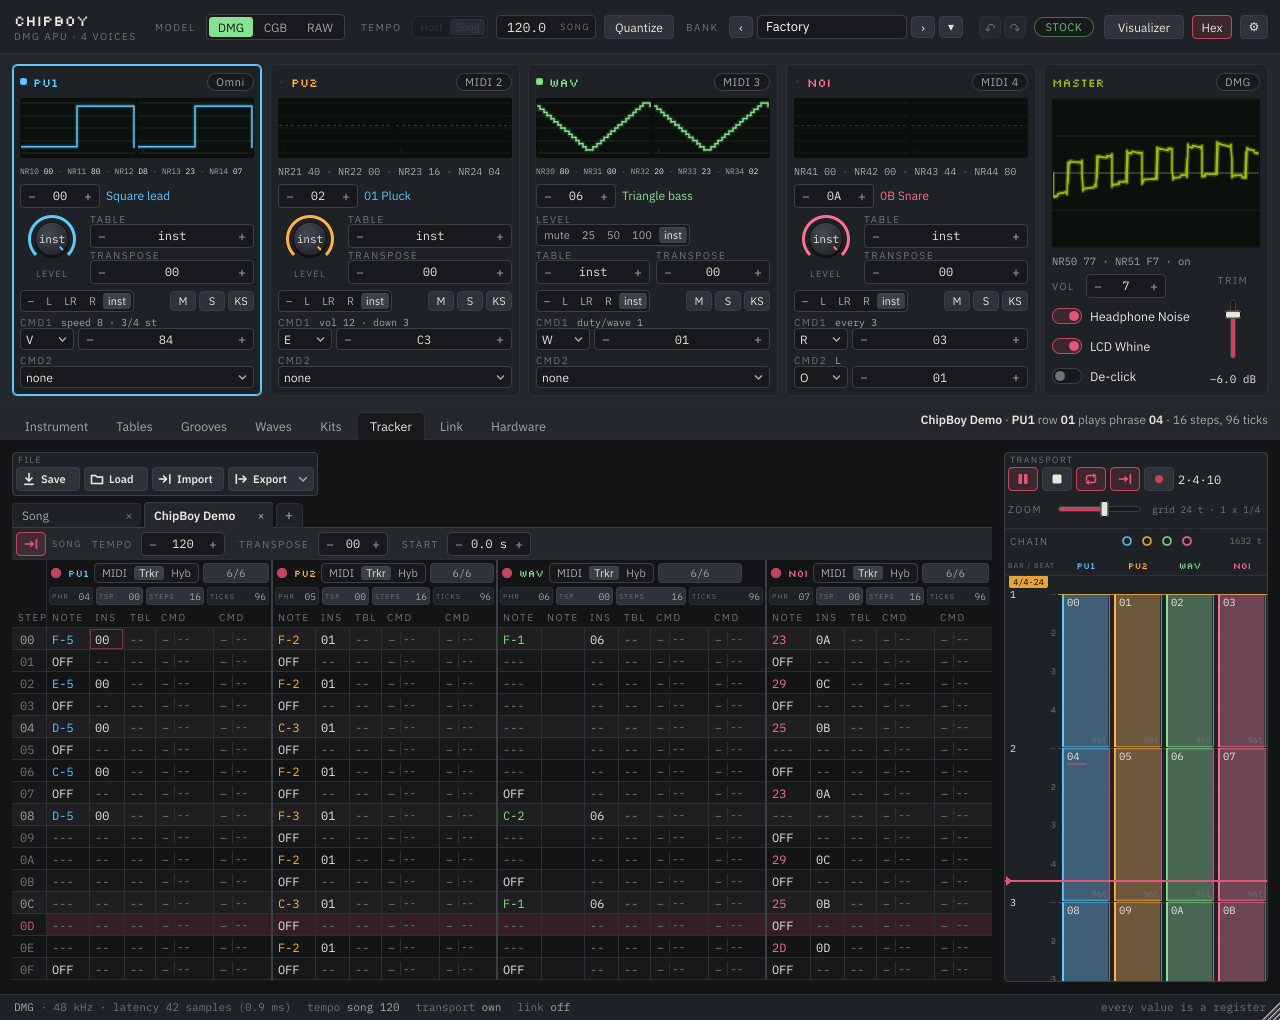
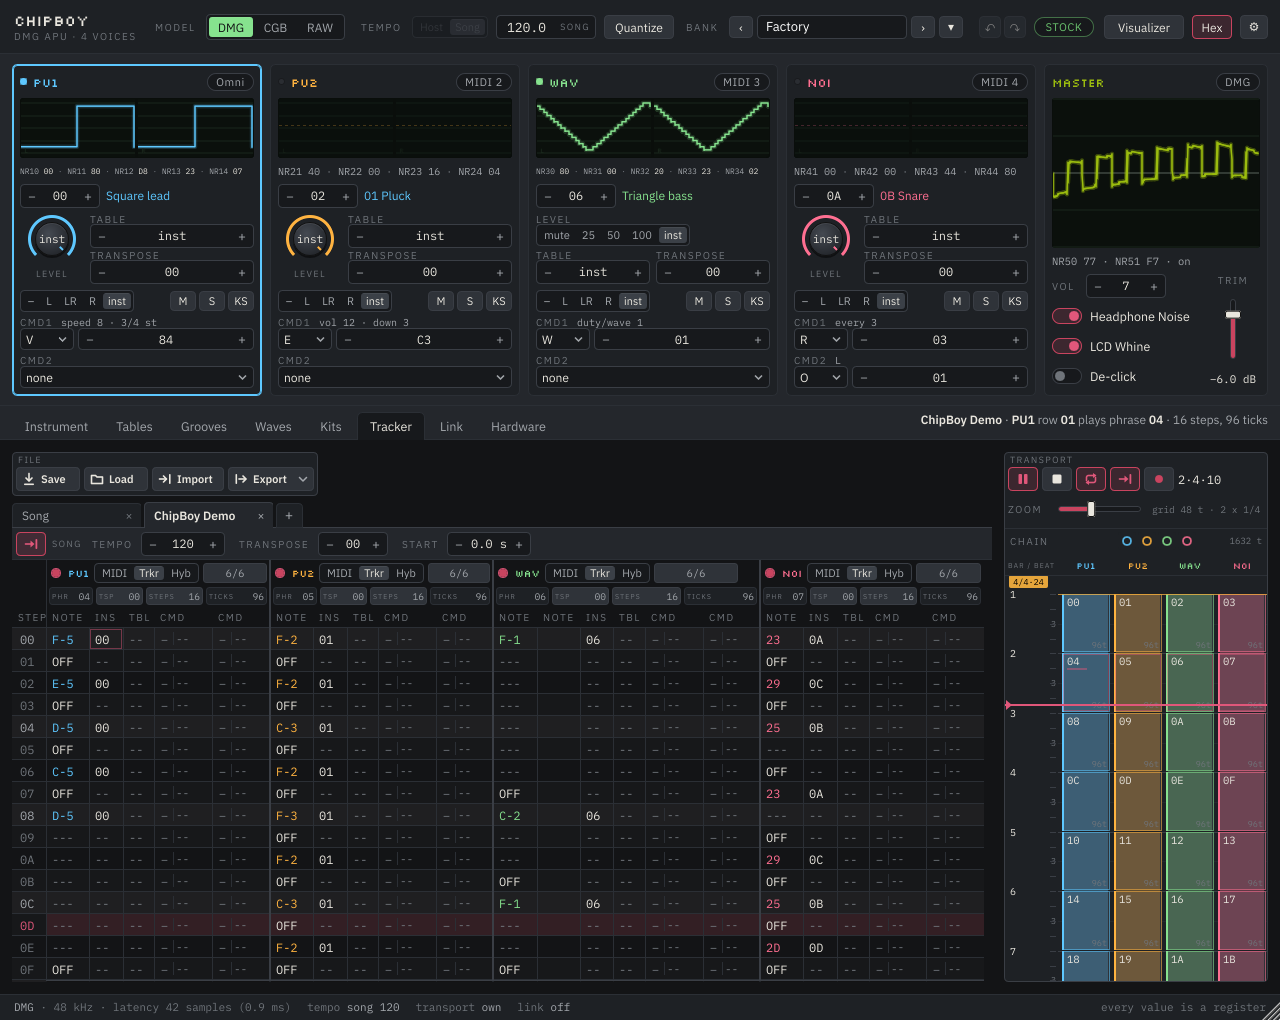
The lane runs to the foot with preview rows; the zoom opens at 48 ticks (D-UI-40)
Past each channel's own phrase the lane previews the rows that follow, dimmed, a hairline
where each new row begins, down to the pane's foot -- not cells: nothing types into them,
the cursor never rests on one, a click puts the play head at that row. Only a phrase longer
than the pane scrolls, and the scrollbar's 8 px stay free at the right. The zoom slider
opens where a grid line is 48 ticks.

Claude-Session: https://claude.ai/code/session_017xjfhsuF4KGRWmf3FzZwSg

diff --git a/Source/plugin/ui/Grids.cpp b/Source/plugin/ui/Grids.cpp
@@ -1157,10 +1157,15 @@ struct PhraseGrid::Impl {
     std::shared_ptr<const bank::Bank> bank;
     /// Each channel's own row: the one it is in at the play head (D-UI-35).
     std::array<int, 4> chRow{};
-    /// A phrase holds sixty-four cells and the bar says how many of them play
-    /// (docs/COMMANDS_AND_TEMPO.md section 11); the grid is that many rows.
-    static constexpr int kMax = tracker::kMaxSteps;
+    /// A phrase holds sixty-four cells; the grid shows a channel's own, then
+    /// the rows that follow it as a preview down to the pane's foot (D-UI-40).
+    static constexpr int kMax = PhraseGrid::kMaxRows;
     std::array<std::array<tracker::Cell, kMax>, 4> cells{};
+    /// Per grid row and channel: the song row the cell belongs to, and
+    /// whether it is that row's first (a new phrase begins there).
+    std::array<std::array<int16_t, kMax>, 4> srcRow{};
+    std::array<std::array<bool, kMax>, 4> boundary{};
+    int visibleRows = PhraseGrid::kVisibleSteps;
     std::array<int, 4> playing { -1, -1, -1, -1 };
     std::array<int, 4> rollNote { -1, -1, -1, -1 };
     std::array<std::array<int, kMax>, 4> shadow{};   ///< the roll's notes as the bar played, greyed
@@ -1331,13 +1336,35 @@ struct PhraseGrid::Impl {
         // shows as many steps as the longest of the four in this row, so every
         // cell it holds can be reached, and each head's LEN says how far its
         // own channel really runs.
-        core.rows = PhraseGrid::kVisibleSteps;
-        if (song != nullptr) { int n = 1; for (int ch = 0; ch < 4; ++ch) n = juce::jmax(n, song->stepsOfRow(ch, chRow[size_t(ch)])); core.rows = n; }
-        core.curRow = juce::jlimit(0, core.rows - 1, core.curRow);
+        // As many rows as the longest of the four phrases, or as the pane
+        // holds, whichever is more (D-UI-40).
+        int longest = 1;
+        if (song != nullptr) for (int ch = 0; ch < 4; ++ch) longest = juce::jmax(longest, song->stepsOfRow(ch, chRow[size_t(ch)]));
+        else longest = PhraseGrid::kVisibleSteps;
+        core.rows = juce::jlimit(1, kMax, juce::jmax(longest, visibleRows));
         for (int ch = 0; ch < 4; ++ch) {
             const int r = chRow[size_t(ch)];
             const auto* p = song != nullptr ? song->phrase(song->phraseAt(ch, r)) : nullptr;
-            for (int i = 0; i < kMax; ++i) cells[size_t(ch)][size_t(i)] = p != nullptr ? p->cells[size_t(i)] : tracker::Cell{};
+            const int own = p != nullptr ? p->length() : (song != nullptr ? song->stepsOfRow(ch, r) : 16);
+            for (int i = 0; i < kMax; ++i) { cells[size_t(ch)][size_t(i)] = p != nullptr && i < own ? p->cells[size_t(i)] : tracker::Cell{}; srcRow[size_t(ch)][size_t(i)] = int16_t(r); boundary[size_t(ch)][size_t(i)] = false; }
+            // The preview: the rows that follow, as if the phrase ran on. A
+            // looping chain comes round (section 212); one that stops shows
+            // its empty rows.
+            if (song != nullptr) {
+                int at = r, gr = own;
+                while (gr < core.rows) {
+                    const int loopRows = song->loopRows(ch);
+                    const bool loops = song->chainEnd[size_t(ch)] == tracker::ChainEnd::Loop && loopRows > 0;
+                    at = loops && at + 1 >= loopRows ? 0 : at + 1;
+                    const auto* np = song->phrase(song->phraseAt(ch, at));
+                    const int len = np != nullptr ? np->length() : 16;
+                    for (int i = 0; i < len && gr < core.rows; ++i, ++gr) {
+                        cells[size_t(ch)][size_t(gr)] = np != nullptr ? np->cells[size_t(i)] : tracker::Cell{};
+                        srcRow[size_t(ch)][size_t(gr)] = int16_t(juce::jmin(at, 32767));
+                        boundary[size_t(ch)][size_t(gr)] = i == 0;
+                    }
+                }
+            }
             groove[size_t(ch)] = p != nullptr ? p->groove : 0;
             length[size_t(ch)] = p != nullptr ? p->length() : (song != nullptr ? song->stepsOfRow(ch, r) : 16);
             // The chip row (D-UI-37): the slot, the row's transpose, and what
@@ -1358,6 +1385,11 @@ struct PhraseGrid::Impl {
             armed[size_t(ch)] = song == nullptr || song->recordArm[size_t(ch)];
             source[ch].setSelected(plays[size_t(ch)] == tracker::NoteSource::Tracker ? 1
                                    : plays[size_t(ch)] == tracker::NoteSource::Hybrid ? 2 : 0, juce::dontSendNotification);
+        }
+        // The cursor never rests on a preview row (D-UI-40).
+        {
+            const int ch = core.curCol >= 0 && core.curCol < int(core.cols.size()) ? core.cols[size_t(core.curCol)].ch : 0;
+            core.curRow = juce::jlimit(0, juce::jmax(0, length[size_t(ch)] - 1), core.curRow);
         }
     }
 
@@ -1895,6 +1927,12 @@ struct PhraseGrid::Impl {
         const int row = core.hoverRow, col = core.hoverCol;
         if (row < 0 || row >= core.rows || col < 0 || col >= int(core.cols.size())) return {};
         const auto& c = core.cols[size_t(col)];
+        if (c.kind != Kind::Step && row >= length[size_t(c.ch)]) {
+            const int r = int(srcRow[size_t(c.ch)][size_t(row)]);
+            const int slot = song != nullptr ? song->phraseAt(c.ch, r) : 0;
+            return juce::String("A preview of ") + colours::channelName(c.ch) + "'s row " + ValueFormat::index(r) + (slot ? ", phrase " + ValueFormat::slot(slot) : juce::String(", no phrase"))
+                   + ", as if this phrase ran on. Not editable: click to put the play head there.";
+        }
         const auto& cell = cells[size_t(c.ch)][size_t(row)];
         if (c.kind == Kind::Ghost)
             return plays[size_t(c.ch)] == tracker::NoteSource::Hybrid
@@ -2081,6 +2119,16 @@ void PhraseGrid::setBank(std::shared_ptr<const bank::Bank> bank)
 {
     impl_->bank = std::move(bank);
 }
+void PhraseGrid::setVisibleRows(int rows)
+{
+    auto& im = *impl_;
+    rows = juce::jlimit(1, kMaxRows, rows);
+    if (rows == im.visibleRows) return;
+    im.visibleRows = rows;
+    im.refreshFromSong();
+    im.buildColumns(getWidth());
+    repaint();
+}
 
 int PhraseGrid::steps() const { return impl_->steps(); }
 void PhraseGrid::setPlayingStep(int ch, int step)
@@ -2140,15 +2188,19 @@ void PhraseGrid::paint(juce::Graphics& g)
             core.paintCell(g, r, c, text, blank, colour, focused);
         }
     }
-    // A step the row never plays -- past the phrase's length, or one its H
-    // hops never reach (section 102) -- is dimmed and stays a cell (D-UI-37).
+    // A step the row never plays -- one its H hops never reach (section
+    // 102) -- is dimmed and stays a cell (D-UI-37); past the phrase's length
+    // the rows that follow are previewed, dimmed alike, a line where each
+    // new row begins (D-UI-40).
     for (int ch = 0; ch < 4; ++ch) {
         const int first = Impl::firstCol(ch), last = first + Impl::channelCols(ch) - 1;
         const int x = core.cols[size_t(first)].x, w = core.cols[size_t(last)].x + core.cols[size_t(last)].w - x;
         for (int r = 0; r < core.rows; ++r) {
-            if (r < im.length[size_t(ch)] && im.reached[size_t(ch)][size_t(r)]) continue;
+            const bool own = r < im.length[size_t(ch)];
+            if (own && im.reached[size_t(ch)][size_t(r)]) continue;
             g.setColour(juce::Colours::black.withAlpha(0.42f));
             g.fillRect(x, core.rowY(r), w, core.rowH);
+            if (!own && im.boundary[size_t(ch)][size_t(r)]) { g.setColour(colours::line); g.fillRect(x, core.rowY(r), w, 1); }
         }
     }
 }
@@ -2205,6 +2257,13 @@ void PhraseGrid::mouseDown(const juce::MouseEvent& e)
     int r = 0, c = 0;
     if (!core.cellAt(e.getPosition(), r, c)) return;
     im.leaveHead();
+    // A preview row (D-UI-40): not a cell to edit; the play head goes to the
+    // row it previews on that channel.
+    if (c > 0 && r >= im.length[size_t(core.cols[size_t(c)].ch)]) {
+        const int ch = core.cols[size_t(c)].ch;
+        if (onAdvance) onAdvance(ch, int(im.srcRow[size_t(ch)][size_t(r)]));
+        return;
+    }
     if (core.editable(c)) {
         // A click ends whatever value was being typed: what follows is a
         // new undo (UI_DESIGN section 2.1).
@@ -2265,6 +2324,7 @@ void PhraseGrid::mouseDoubleClick(const juce::MouseEvent& e)
     }
     int r = 0, c = 0;
     if (!core.cellAt(e.getPosition(), r, c) || !core.editable(c)) return;
+    if (r >= im.length[size_t(core.cols[size_t(c)].ch)]) return;   // a preview row (D-UI-40)
     // A blank cell fills itself first (section 38).
     if (im.fillBlank(r, c)) return;
     const auto kind = core.cols[size_t(c)].kind;
@@ -2311,6 +2371,8 @@ bool PhraseGrid::keyPressed(const juce::KeyPress& k)
     }
     if (core.navigate(k)) {
         im.leaveHead();
+        // A preview row is never the cursor's (D-UI-40).
+        { const int ch = core.cols[size_t(core.curCol)].ch; core.curRow = juce::jlimit(0, juce::jmax(0, im.length[size_t(ch)] - 1), core.curRow); }
         repaint();
         if (onEntryEnd) onEntryEnd();
         // Past sixteen steps the grid is taller than its pane, so the tab
@@ -2406,8 +2468,9 @@ struct ChainColumn::Impl {
     int64_t cursor = 0;
     bool playing = false;
     int64_t transport = 0;
-    /// The zoom slider, 0..1, log-mapped to pixels per tick (D-UI-35).
-    double zoomT = 0.56;
+    /// The zoom slider, 0..1, log-mapped to pixels per tick (D-UI-35); it
+    /// opens where a grid line is 48 ticks, two quarters (D-UI-40).
+    double zoomT = 0.40;
     /// The rows area's scroll, in pixels down the timeline.
     double scrollPx = 0.0;
     /// The cell cursor: channel * 2, + 1 on the transpose (section 48). The

diff --git a/Source/plugin/main/panels/TrackerPanel.cpp b/Source/plugin/main/panels/TrackerPanel.cpp
@@ -171,6 +171,22 @@ TrackerPanel::TrackerPanel(ChipBoyProcessor& p)
     auto lane = std::make_unique<Hold>(grid_, PhraseGrid::preferredHeight());
     laneHold_ = lane.get();
     scroll_.setContent(std::move(lane));
+    scroll_.setReserveScrollbar(true);                   // room for the low-profile bar whether or not it shows (D-UI-40)
+    // A click on a preview row (D-UI-40): the play head goes to that row of
+    // that channel, on the pass the play head is on.
+    grid_.onAdvance = [this](int ch, int row) {
+        const auto s = processor.song();
+        if (!s || row < 0) return;
+        int cur = 0, in = 0, pass = 0;
+        tracker::rowAtTick(*s, ch, cursor_, cur, in, &pass);
+        const int64_t loop = tracker::chainLoopTicks(*s, ch);
+        int64_t t = tracker::rowStartTick(*s, ch, row) + int64_t(pass) * loop;
+        if (t <= cursor_ && loop > 0) t += loop;
+        cursor_ = std::max<int64_t>(0, t);
+        if (processor.ownsTransport() && processor.transportPlaying()) processor.transportLocate(cursor_);
+        refreshViews();
+        contextChanged();
+    };
 
     // The play head moved by hand (D-UI-35): the lanes look there, and a
     // running own transport jumps there too (section 223).
@@ -337,7 +353,8 @@ void TrackerPanel::refreshViews()
     if (s) { spb = 1; for (int ch = 0; ch < 4; ++ch) { rows[ch] = rowOf(ch); spb = std::max(spb, s->stepsOfRow(ch, rows[ch])); } }
     grid_.setSong(s, rows);
     for (int ch = 0; ch < 4; ++ch) shownRow_[size_t(ch)] = rows[ch];
-    if (spb != gridSteps_) { gridSteps_ = spb; syncGridHeight(); }
+    gridSteps_ = spb;
+    syncGridHeight();
     syncSongTime();
     syncTabs();
 }
@@ -346,8 +363,15 @@ void TrackerPanel::refreshViews()
 /// the tab's pane scrolls (docs/COMMANDS_AND_TEMPO.md section 25).
 void TrackerPanel::syncGridHeight()
 {
+    // The lane runs to the pane's foot (D-UI-40): as many rows as the pane
+    // holds, the last one cut where it must, previewing the rows that follow
+    // each channel's phrase; only a phrase longer than the pane scrolls.
     if (laneHold_ == nullptr) return;
-    laneHold_->setHeight(PhraseGrid::heightForSteps(gridSteps_));
+    const int paneH = std::max(1, scroll_.getHeight());
+    const int paneRows = std::max(1, (paneH - PhraseGrid::kHeaderHeight + PhraseGrid::kRowHeight - 1) / PhraseGrid::kRowHeight);
+    grid_.setVisibleRows(paneRows);
+    const int own = PhraseGrid::heightForSteps(gridSteps_);
+    laneHold_->setHeight(own > paneH ? own : paneH);
     scroll_.relayout();
 }
 
@@ -685,6 +709,7 @@ void TrackerPanel::resized()
         place(r, songStart_, 84, Stepper::kHeight);
     }
     scroll_.setBounds(area);
+    syncGridHeight();
 
     // TRANSPORT, stuck to the chain (D-UI-36, D-UI-39): the five icons and
     // the readout on its first row, the zoom on its second.

diff --git a/Source/plugin/ui/Widgets.h b/Source/plugin/ui/Widgets.h
@@ -332,6 +332,12 @@ public:
     /// The song and each channel's own row -- the one it is in at the play
     /// head (D-UI-35, docs/COMMANDS_AND_TEMPO.md section 25).
     void setSong(std::shared_ptr<const tracker::Song> song, const int rows[4]);
+    /// How many rows the pane can show (D-UI-40): the grid is at least that
+    /// tall, and past each channel's own phrase it previews the rows that
+    /// follow, dimmed, as if the phrase ran on.
+    void setVisibleRows(int rows);
+    /// A click on a preview row: the play head goes to that channel's row.
+    std::function<void(int ch, int row)> onAdvance;
     /// The bank the right-click lists read: the instruments and tables a
     /// cell can name, by slot and name (UI_DESIGN section 2.1).
     void setBank(std::shared_ptr<const bank::Bank> bank);
@@ -357,12 +363,12 @@ public:
     juce::String getTooltip() override;   ///< the hovered cell: what the column is, and what the command says
     /// The head is the name row, the chip row (PHRASE, TSP, STEPS, TICKS --
     /// D-UI-37) and the column captions: 26 + 20 + 22.
-    static constexpr int kRowHeight = 22, kHeaderHeight = 68, kVisibleSteps = 16;
+    static constexpr int kRowHeight = 22, kHeaderHeight = 68, kVisibleSteps = 16, kMaxRows = 128;
     /// How tall the grid is for a bar of `steps` steps; sixteen is what the
     /// pane holds without scrolling.
     static constexpr int heightForSteps(int steps)
     {
-        return kHeaderHeight + (steps < 1 ? 1 : steps > tracker::kMaxSteps ? tracker::kMaxSteps : steps) * kRowHeight;
+        return kHeaderHeight + (steps < 1 ? 1 : steps > kMaxRows ? kMaxRows : steps) * kRowHeight;
     }
     static constexpr int preferredHeight() { return heightForSteps(kVisibleSteps); }
     void resized() override; void paint(juce::Graphics&) override;

diff --git a/Source/plugin/main/panels/PanelCommon.h b/Source/plugin/main/panels/PanelCommon.h
@@ -225,12 +225,15 @@ public:
     ~ScrollBlock() override;
     void setContent(std::unique_ptr<Block> b);
     Block* content() { return content_.get(); }
+    /// Keep the scrollbar's width free at the right whether or not it shows,
+    /// so the content's columns never re-lay when it appears (D-UI-40).
+    void setReserveScrollbar(bool on) { reserve_ = on; relayout(); }
     void relayout();
     /// Scroll the least that brings [y, y + height) of the content into view.
     void scrollToKeepVisible(int y, int height);
     void resized() override;
 private:
-    juce::Viewport viewport_; std::unique_ptr<Block> content_;
+    juce::Viewport viewport_; std::unique_ptr<Block> content_; bool reserve_ = false;
 };
 
 /// A container giving a tooltip (and a click) to a child that has neither.

diff --git a/Source/plugin/main/panels/PanelCommon.cpp b/Source/plugin/main/panels/PanelCommon.cpp
@@ -396,9 +396,9 @@ void ScrollBlock::scrollToKeepVisible(int y, int height)
 void ScrollBlock::relayout()
 {
     if (!content_) return;
-    int w = std::max(1, getWidth());
+    int w = std::max(1, getWidth() - (reserve_ ? viewport_.getScrollBarThickness() : 0));
     int h = content_->preferredHeight(w);
-    if (h > getHeight()) { w = std::max(1, getWidth() - viewport_.getScrollBarThickness()); h = content_->preferredHeight(w); }
+    if (h > getHeight() && !reserve_) { w = std::max(1, getWidth() - viewport_.getScrollBarThickness()); h = content_->preferredHeight(w); }
     content_->setSize(w, std::max(h, 1));
     content_->resized();
 }

diff --git a/docs/UI_DESIGN.md b/docs/UI_DESIGN.md
@@ -629,10 +629,11 @@ Across, the chain takes 264 px off the right with a 12 px gap, leaving 880 for t
 second note column between its note and ins (D-UI-34) -- sharing the width by the columns'
 weights. The chain's 264 is a 4 px pad, a 54 px gutter (bar numbers at its left, beats at its
 right) and four 50 px channel columns 2 px apart, under a 48 px head of its own.
-While the lane's *Follow* is off (D-UI-16, D-UI-38) the play head is the user's, not the transport's; the chain's own *Follow* only says whether the timeline scrolls. **Past
-sixteen steps** the lane is taller than its pane and scrolls inside it — the tab's only
-scrollbar — following the cursor as it is typed down the phrase and the step the selected
-channel is playing; a phrase of 64 steps is 1476 px of lane. The playing step is highlighted
+While the lane's *Follow* is off (D-UI-16, D-UI-38) the play head is the user's, not the transport's; the chain's own *Follow* only says whether the timeline scrolls. The lane runs to
+the pane's foot, previewing the rows that follow each phrase (D-UI-40); **past the pane's
+rows** a phrase scrolls inside it — the tab's only scrollbar — following the cursor as it is
+typed down the phrase and the step the selected channel is playing; a phrase of 64 steps is
+1476 px of lane. The playing step is highlighted
 per channel on the step that channel's own groove is really playing, so a swung phrase marks
 the row that is sounding.
 
@@ -783,3 +784,4 @@ recorded in `CHANGES.md`.
 | D-UI-37 | What does the lane's head say about the row? | **A chip row of its own**: PHRASE (the slot, read-only), TSP (the row's transpose, typed like the chain's cell), STEPS (the phrase's length, typed; was LEN) and TICKS (calculated: what the groove and the `H` hops make of it, the block's height). The groove chip stays on the name row. Cells an `H` never reaches are dimmed but stay cells. The head is 68 px (was 48); the tool rows' gaps give up 4 px so sixteen steps still fit the minimum window |
 | D-UI-38 | Does the lane follow the transport when the chain does not? | **Two follows** (D-UI-16 revised). The chain's, over the chain, scrolls the timeline with the play head; the lane's, an icon over the STEP column, moves the play head -- and so the lanes -- with the transport. Either can be off alone: the lanes stay on a phrase while the chain scrolls past, or the chain stays where it was scrolled while the lanes play through. Both are kept in `ui_view` |
 | D-UI-39 | How is the Tracker head arranged? | **Three surfaces, settled over three rounds of a mock built on the plugin's own pixels.** Top left, a **FILE card** as wide as its four glyph-and-word buttons -- Save, Load, Import, and **Export as a menu** (MIDI, player ROM `.gb`, LSDj save `.sav`; none built yet) -- so exports can multiply without clutter. A 6 px breath, then the **song tabs**, whose active tab shares the fill of the **SONG bar** under it and breaks the strip's bottom line, Chrome's way: tempo, transpose and start are the active song's own, so they open its pane as its first row, with the lane's own follow (D-UI-38) at the bar's left. On the right the **TRANSPORT card** stands on the chain with square corners at the joint and holds play/pause, stop, loop, the chain's follow, **record** (a red dot, where a DAW keeps it; the per-channel arms stay by the lane names) and the `bar·beat·tick` readout, the zoom under them; the LED went, play reads pause. Both columns' heads are 108 and 76 px, so the lane keeps its sixteen rows |
+| D-UI-40 | Does the lane stop where the phrase stops? | **No: it runs to the pane's foot, like the chain.** Past each channel's own phrase the lane previews the rows that follow -- the next row's cells, then the next -- dimmed as the unreached steps are, a hairline where each new row begins, as if the phrase ran on; a looping chain comes round, one that stops shows its empty rows. Preview rows are not cells: nothing types into them, the cursor never rests on one, and a click puts the play head at that channel's row (the pass the play head is on). The pane's last row may be cut; only a phrase longer than the pane scrolls, and the 8 px scrollbar's width is kept free at the right whether or not it shows, so the columns never re-lay. The zoom opens where a grid line is 48 ticks, two quarters |

diff --git a/docs/HANDOFF.md b/docs/HANDOFF.md
@@ -91,6 +91,19 @@ state file is `ChipBoy.settings` under the app-data folder (`%APPDATA%\ChipBoy` 
   `CHANGES.md`: departures newest first, implementation status. `Demo/`: Reaper
   projects, `.cbsong` files, `PARAMETERS.md`.
 
+## Done (2026-09-18, later) -- the lane runs to the foot with preview rows (D-UI-40)
+
+- `PhraseGrid::setVisibleRows` (the pane's row capacity, from `TrackerPanel::syncGridHeight`
+  on every layout): the grid is as tall as the pane or the longest phrase, whichever is more,
+  and past each channel's `length` the cells are the next rows' (`srcRow`, `boundary`), a looping
+  chain coming round. Preview rows take the same dim overlay as unreached steps with a hairline
+  at each row's start; the cursor is clamped off them; a click calls `onAdvance(ch, row)` and the
+  panel moves the play head to that row on the current pass. `ScrollBlock::setReserveScrollbar`
+  keeps the 8 px free. `kMaxRows` 128 is the grid's storage; a phrase is still 64 cells.
+- The zoom's default is 0.40 on the slider: 48 ticks a grid line under 4/4·24.
+- Caught in the shot and fixed before the commit: the switch state after the preview block
+  updated only the cursor's channel (a brace closed the channel loop early).
+
 ## Done (2026-09-18) -- the Tracker head rearranged (D-UI-39)
 
 - Three rounds of a mock composed from the plugin's own screenshots (`scratchpad/mock3/`,

diff --git a/CHANGES.md b/CHANGES.md
@@ -26,6 +26,15 @@ intended product rather than a progress report.
 
 ## Spec revisions
 
+### 2026-09-18 -- the lane runs to the foot with preview rows; the zoom opens at 48 ticks
+
+`docs/UI_DESIGN.md` D-UI-40. The lane no longer stops at the longest phrase: it fills the pane
+like the chain does, and past each channel's own phrase it previews the rows that follow, dimmed,
+a hairline where each new row begins -- not cells (nothing types into them; a click puts the
+play head at that row). Only a phrase longer than the pane scrolls, and the scrollbar's 8 px
+stay free at the right whether or not it shows. The zoom slider opens where a grid line is 48
+ticks. Cells kept past a phrase's length are no longer shown until STEPS grows back over them.
+
 ### 2026-09-18 -- the Tracker head: a FILE card, tabs joined to a SONG bar, the transport on the chain
 
 `docs/UI_DESIGN.md` D-UI-39 (D-UI-36 and D-UI-38 amended); spec 17's head revised. The two
